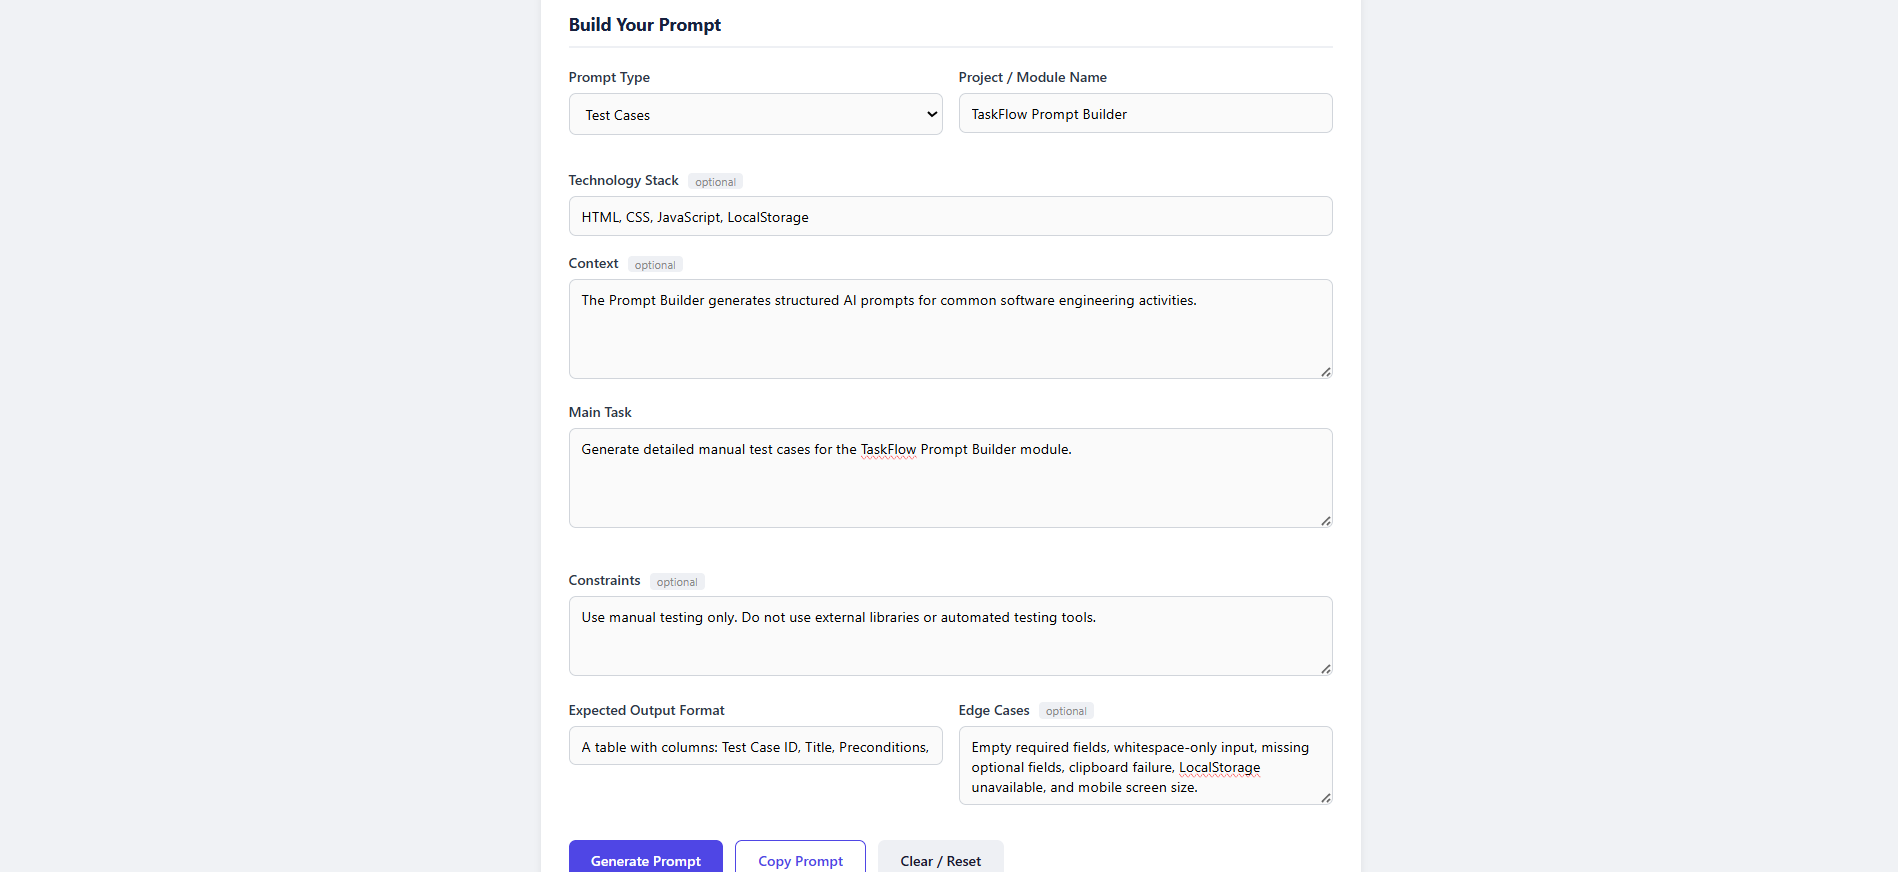
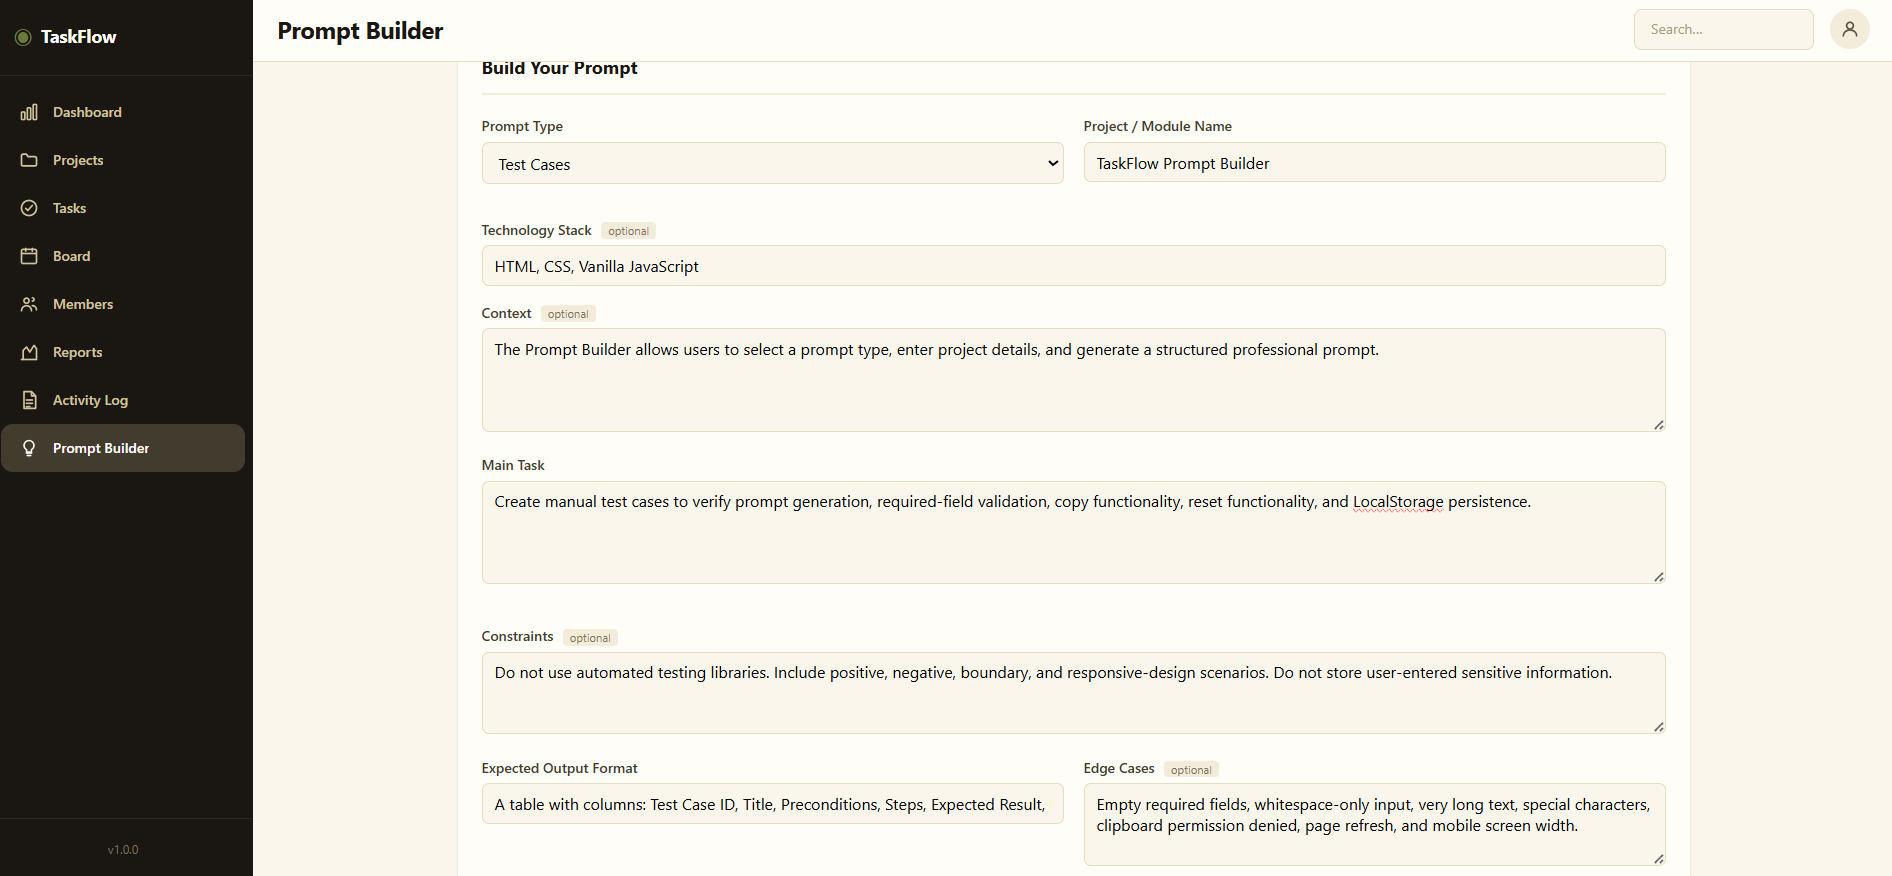
fix: update prompt builder integrated page

diff --git a/index.html b/index.html
@@ -374,34 +374,30 @@
     (function() {
       'use strict';
 
-      /* ── Shared DOM refs ──────────────────────────────────── */
-      const toggleBtn    = document.getElementById('menuToggle');
-      const sidebar      = document.getElementById('sidebar');
-      const navDashboard = document.getElementById('nav-dashboard');
-      const navPromptBld = document.getElementById('nav-prompt-builder');
-      const dashboardSec = document.querySelector('.dashboard');
-      const pbSection    = document.getElementById('prompt-builder-section');
-      const headerTitle  = document.querySelector('.header__title');
-      const allNavItems  = document.querySelectorAll('.sidebar__item');
+      var toggleBtn    = document.getElementById('menuToggle');
+      var sidebar      = document.getElementById('sidebar');
+      var navDashboard = document.getElementById('nav-dashboard');
+      var navPromptBld = document.getElementById('nav-prompt-builder');
+      var dashboardSec = document.querySelector('.dashboard');
+      var pbSection    = document.getElementById('prompt-builder-section');
+      var headerTitle  = document.querySelector('.header__title');
+      var allNavItems  = document.querySelectorAll('.sidebar__item');
 
-      /* ── Helper: activate a nav item ───────────────────────── */
       function setActiveNav(activeLi) {
-        allNavItems.forEach(function(li) {
-          li.classList.remove('sidebar__item--active');
-          var link = li.querySelector('.sidebar__link');
+        for (var i = 0; i < allNavItems.length; i++) {
+          allNavItems[i].classList.remove('sidebar__item--active');
+          var link = allNavItems[i].querySelector('.sidebar__link');
           if (link) { link.removeAttribute('aria-current'); }
-        });
+        }
         activeLi.classList.add('sidebar__item--active');
         var activeLink = activeLi.querySelector('.sidebar__link');
         if (activeLink) { activeLink.setAttribute('aria-current', 'page'); }
       }
 
-      /* ── Helper: close mobile sidebar ──────────────────────── */
       function closeMobileSidebar() {
         if (sidebar) { sidebar.classList.remove('sidebar--open'); }
       }
 
-      /* ── Show Dashboard ────────────────────────────────────── */
       function showDashboard(e) {
         if (e) { e.preventDefault(); }
         if (dashboardSec) { dashboardSec.style.display = ''; }
@@ -411,7 +407,6 @@
         closeMobileSidebar();
       }
 
-      /* ── Show Prompt Builder ───────────────────────────────── */
       function showPromptBuilder(e) {
         if (e) { e.preventDefault(); }
         if (dashboardSec) { dashboardSec.style.display = 'none'; }
@@ -421,14 +416,12 @@
         closeMobileSidebar();
       }
 
-      /* ── Menu toggle (responsive) ──────────────────────────── */
       if (toggleBtn && sidebar) {
         toggleBtn.addEventListener('click', function() {
           sidebar.classList.toggle('sidebar--open');
         });
       }
 
-      /* ── Nav click handlers ────────────────────────────────── */
       if (navDashboard) {
         navDashboard.addEventListener('click', showDashboard);
       }
@@ -438,6 +431,8 @@
       }
     })();
   </script>
+
+  <script src="src/modules/promptBuilder.js"></script>
 
 </body>
 </html>